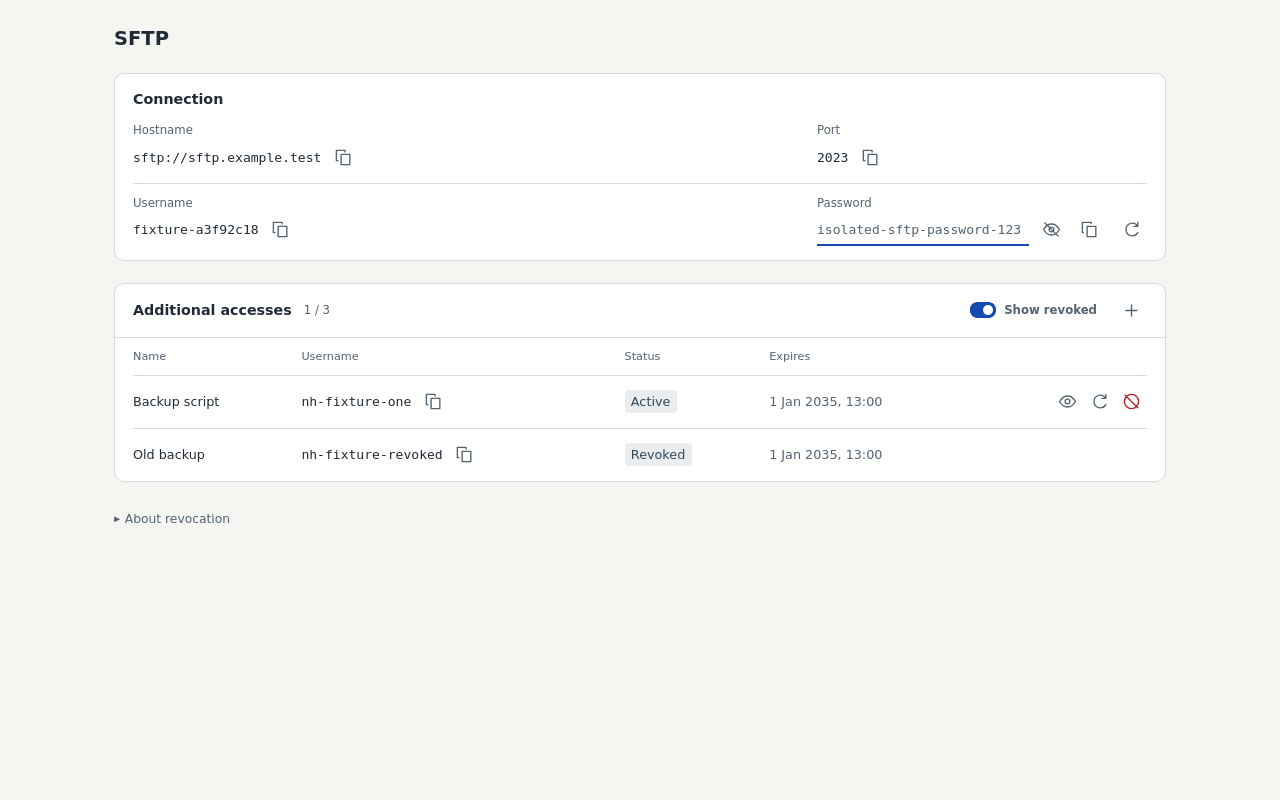
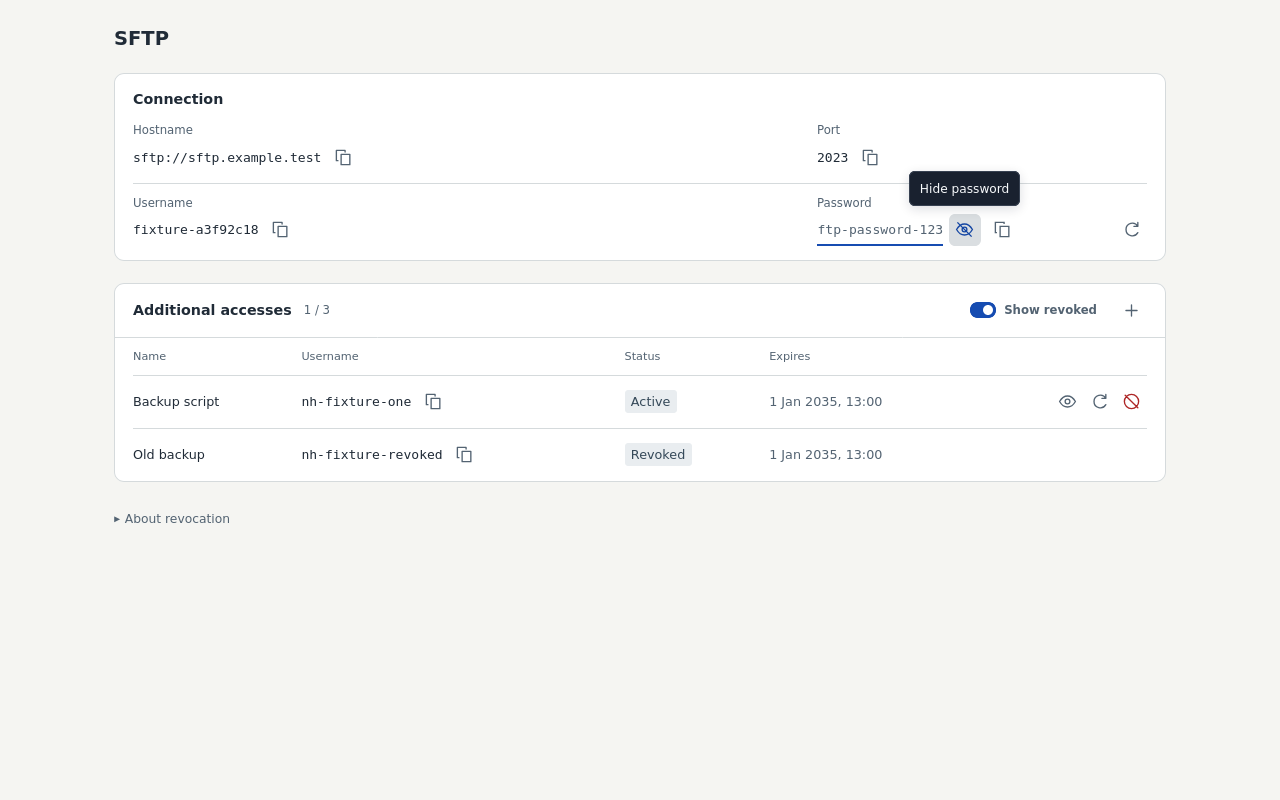
fix(web): keep SFTP password actions stationary

Changed region(s): [[0.6562, 0.1875, 0.8438, 0.3125]]

diff --git a/apps/web/src/features/sftp.css b/apps/web/src/features/sftp.css
@@ -352,11 +352,16 @@
 .sftp-primary-password {
   align-items: flex-start;
 }
-.sftp-recoverable .sftp-value > input {
+.sftp-recoverable .sftp-value > :is(input, span) {
   width: 16ch;
-  flex: 1;
+  flex: 0 1 16ch;
   font-size: 0.87rem;
   min-height: 32px;
+}
+.sftp-recoverable .sftp-value > span {
+  display: flex;
+  align-items: center;
+  min-width: 0;
 }
 .sftp-issued > .sftp-endpoint {
   margin-top: 14px;

diff --git a/docs/M5-VALIDATION.md b/docs/M5-VALIDATION.md
@@ -9835,3 +9835,11 @@ and forced-colors outline, then checked in real Firefox and screenshots:
 These contain deliberately fake fixture passwords. Final independent review:
 no remaining must-fix findings. Rollback is a scoped source/UI revert, without
 migration or password changes. PR #21 remains open/unmerged.
+
+SFTP password layout followup: hidden mask and revealed input now share the same
+non-growing 16ch flex basis, retaining shrinkability on narrow screens. Show/Copy
+no longer move on reveal. CSS Biome and the existing `sftp-ui.browser.test.ts`
+`-t 'renders EN/IT'` check passed (1 passed, 17 skipped), including responsive/axe
+and keyboard focus checks. Independent comparison of fresh hidden/shown desktop
+and mobile screenshots found no regressions; revealed screenshots above refreshed.
+CSS-only, existing HMR, no backend or infrastructure operations.
